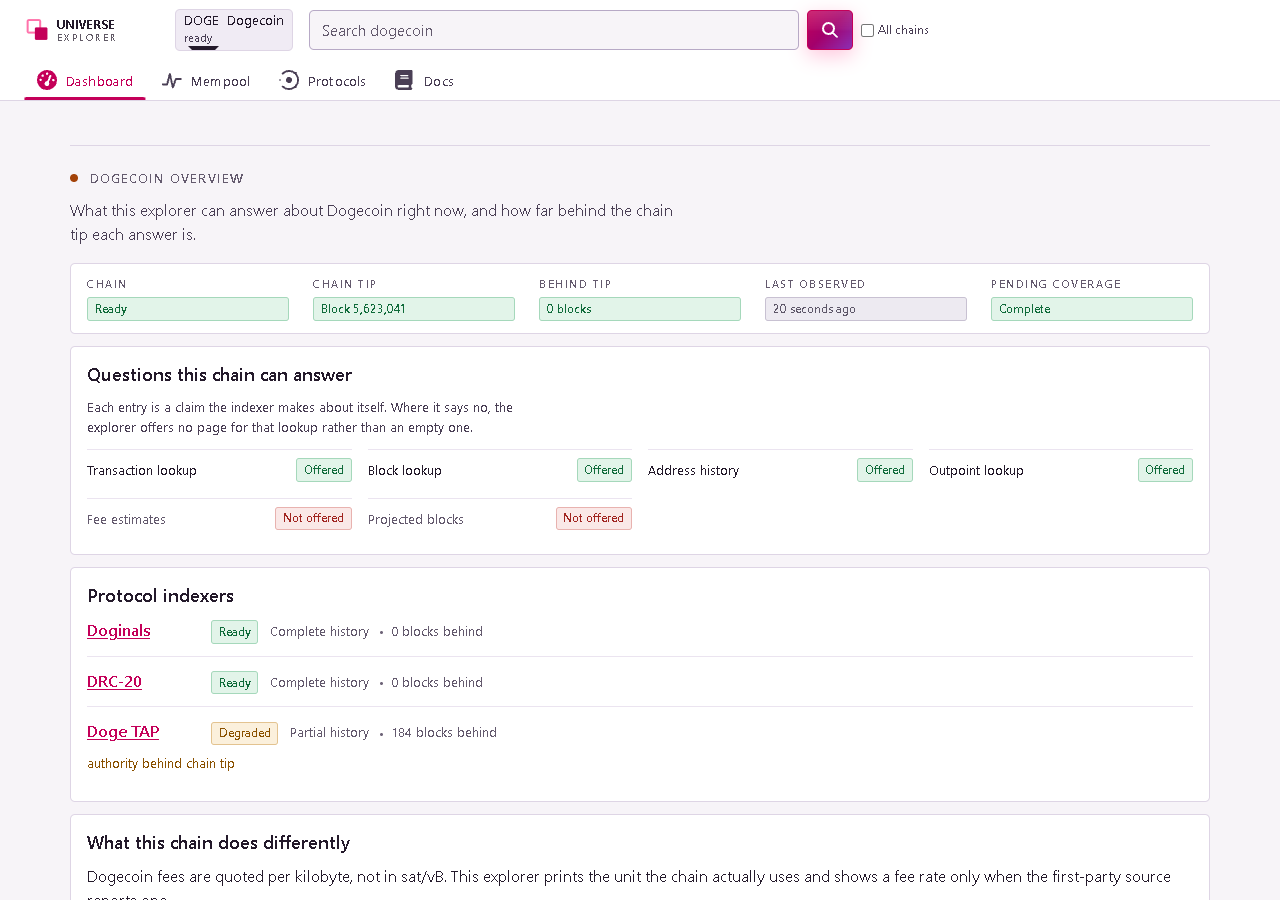
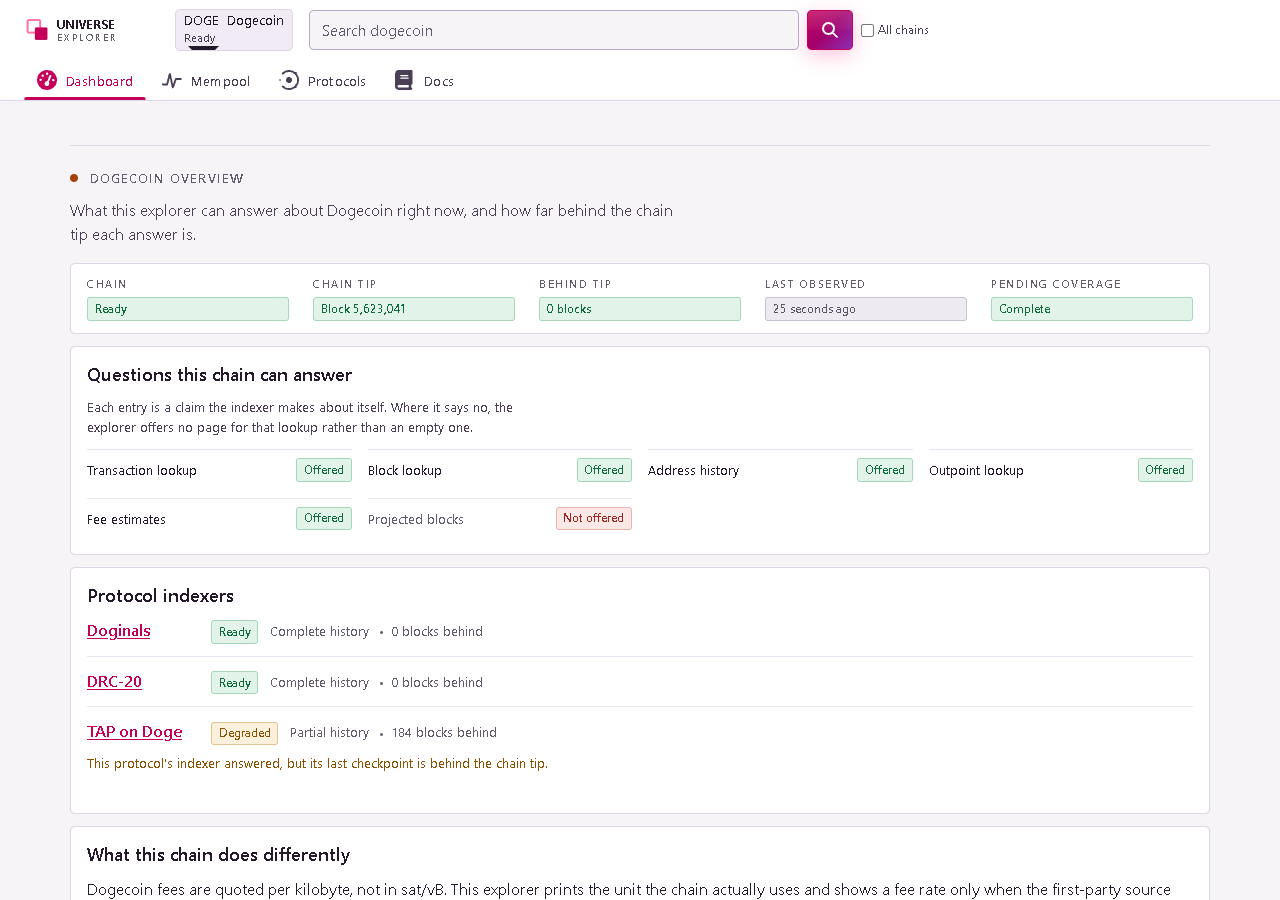
Retake the overview screenshot the fixture corrections made stale
Correcting the Dogecoin and Zcash fixtures to what the live capability document
declares changed two things this image shows: fee estimates are offered, and
TAP on Doge states its condition as a sentence rather than as a wire code. The
alt text says what the image now says, including the chain switcher reading,
which is the part of the header this branch changed.

diff --git a/README.md b/README.md
@@ -84,13 +84,15 @@ Object identifiers do not carry between chains, so switching chains from an
 object page lands on that chain's overview and says why, rather than looking up
 a Bitcoin transaction id on Dogecoin.
 
-![The Dogecoin overview page. A status rail reads Ready, block 5,623,041, zero
-blocks behind, observed 39 seconds ago, complete pending coverage. Below it a
-panel titled Questions this chain can answer marks transaction, block, address
-and outpoint lookup as offered and fee estimates and projected blocks as not
-offered. A protocol indexers panel lists Doginals and DRC-20 as ready with
-complete history, and Doge TAP as degraded, 184 blocks behind, because its
-authority is behind the chain
+![The Dogecoin overview page. The chain switcher in the header reads DOGE
+Dogecoin, Ready. A status rail reads Ready, block 5,623,041, zero blocks behind,
+observed 25 seconds ago, complete pending coverage. Below it a panel titled
+Questions this chain can answer marks transaction, block, address and outpoint
+lookup and fee estimates as offered, and projected blocks as not offered. A
+protocol indexers panel lists Doginals and DRC-20 as ready with complete
+history, and TAP on Doge as degraded with partial history, 184 blocks behind,
+followed by the sentence: this protocol's indexer answered, but its last
+checkpoint is behind the chain
 tip.](docs/product/screenshots/dogecoin-overview.png)
 
 Both screenshots are taken by the review harness in
